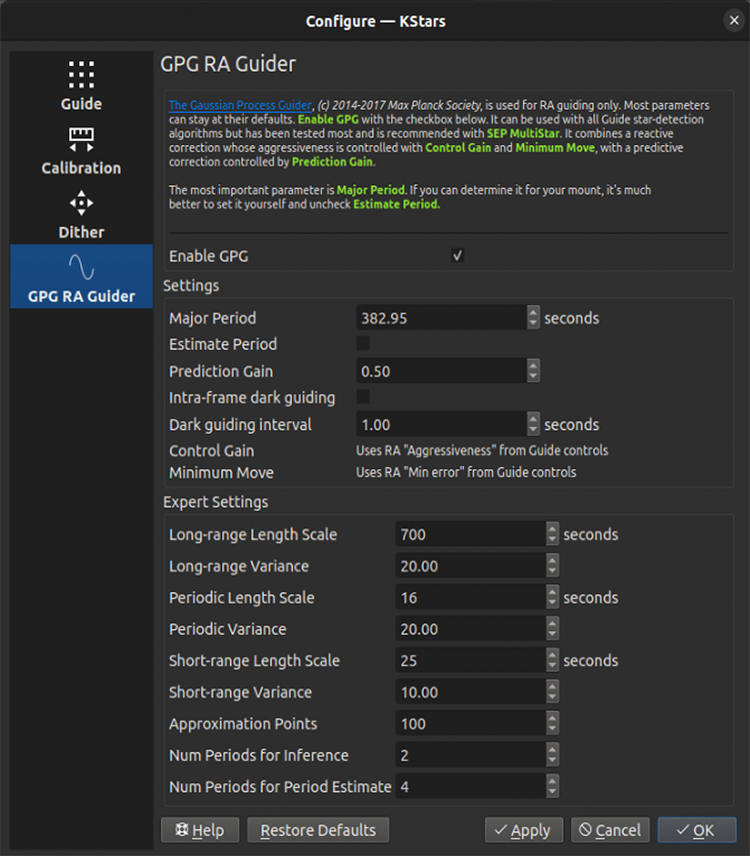
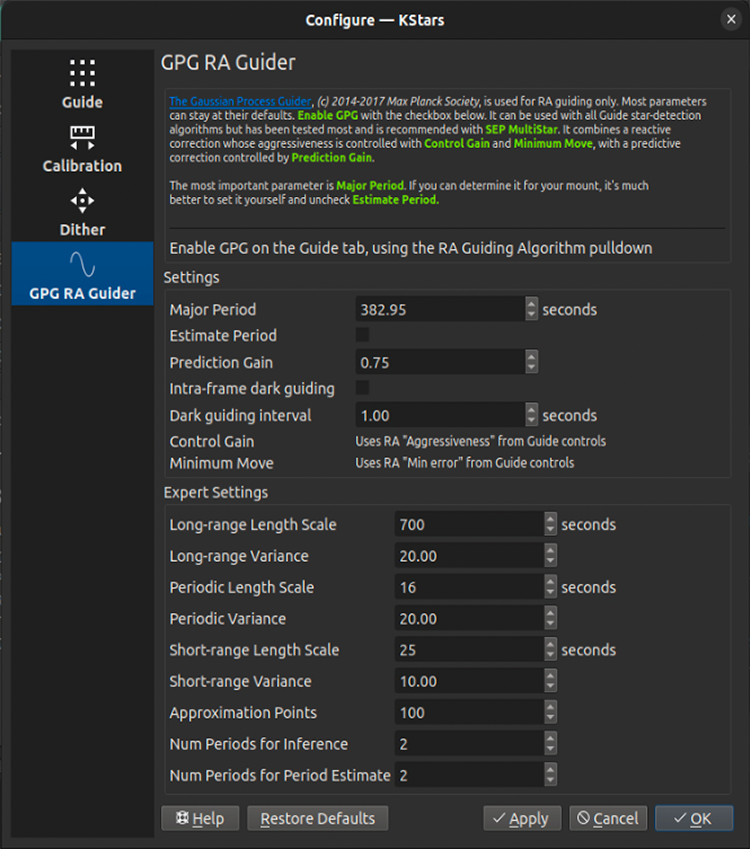
Update guider doc for guide algorithm selection

diff --git a/user_manual/ekos-guide.rst b/user_manual/ekos-guide.rst
@@ -198,8 +198,6 @@ Calibration Failures
 Guiding
 =========   
 
-                  |Guide Settings|
-
             Once the calibration process is completed successfully,
             guiding begins automatically. The guiding performance is
             displayed in the ``Drift Graphics`` region where ``Green`` reflects
@@ -213,37 +211,74 @@ Guiding
             inspect a specific region of the graph. Another convenient
             place to examine guiding performance is in the Analyze tab.
 
-            Ekos can utilize multiple algorithms to determine the drift
-            from the (original) lock position, but by far the most
-            accurate is the (default) SEP MultiStar algorithm. It uses
+                  |Guide Settings|
+
+            There are two types of algorithms used in the internal guider, and you
+            have choices of which variations to use for both. The first is the
+            ``Star Detection`` algorithm. The guider captures images of the sky and
+            automatically detects stars in these images. Once this is done, it can determine
+            your mount's drift in RA and DEC from its original position. The second type of
+            algorithm is the ``Guiding Algorithm`` used to compute the RA and DEC
+            guide pulses that should be sent to your mount to correct that drift.
+            
+            You can find star-detection algorithm choices in the Guide Settings
+            page (above image) at the top of the ``Other Settings`` section.
+            By far the most accurate is the (default) SEP MultiStar algorithm. It uses
             the detected position of many stars (in the above settings,
             up to 50) to determine its best estimate for the current
             drift. It is dependent on accurate star detection. Thus, it
             may be important to adjust star-detection parameters. Start
             with the default Guide-Default SEP profile, and optionally
             edit its parameters if you feel stars are not being detected
-            accurately.
+            accurately. Pretty much the only reason not to use SEP MultiStar
+            would be if you can't get your SEP star-detection to perform adequately.
 
-            Here are some of the parameters you may want to adjust.
-            Again, good advice in choosing parameters is available on
+            Guiding algorithm choices are made at the top of the settings page.
+            You can choose separate algorithms for RA and DEC.
+            Here are the possibilities:
+
+               -  Standard: The traditional proportional guide algorithm. It computes
+                  a pulse to correct the computed guide drift. The aggressiveness
+                  parameter decides what proportion of the error is corrected.
+                  Integral gain can be used but is not recommended.
+                  Errors smaller than MinError won't be corrected. Max response limits
+                  the largest correction. The hysteresis parameter is not used.
+
+               -  Hysteresis: Hysteresis is like the standard algorithm but weights in the
+                  previous correction according to the hysteresis parameter.
+
+               -  Linear: This is similar to the PHD2 Lowpass2 algorithm. It computes the
+                  error pulses based on a short history of recent errors. This may be applicable
+                  to very stable mounts and is similar to the PHD2 LowPass2 algorithm.
+
+               -  GPG: (RA Only) The GPG algorithm tries to predict periodic error and
+                  linear drifts. It uses the aggressiveness, min and max parameters here,
+                  and more parameters on the separate GPG tab. It is very similar to the
+                  PHD2 PPEC algorithm. For technical details see `this paper <https://www.researchgate.net/publication/276459268_Gaussian_Process-Based_Predictive_Control_for_Periodic_Error_Correction>`__.
+                  There is more detail on GPG below.
+
+            A good starting choice is ``Standard`` or ``Hysteresis`` (with a 0.1 hysteresis parameter).
+            You may want to use ``GPG`` for RA, as it is probably the best performing algorithm for many mounts,
+            however it is more complex to set up (see below). ``Linear`` is recommended for some
+            high-performance mounts.
+            
+            Good advice in choosing parameters is available on
             the internet, e.g. from `the above
             slideshow <https://openphdguiding.org/PHD2_BestPractices_2019-12.pdf>`__.
 
-               -  Aggressiveness. How quickly you want the guider to
-                  correct the error. Values of 0.5 or 0.6 are usually
-                  best (i.e. correcting about half the observed error).
+            The main parameter choices you have are below. They are applicable to
+            all the guiding algorithms.
+
+               -  Aggressiveness. This controls how quickly you want the guider to
+                  correct the error. Values of 0.5 to 0.7 are usually
+                  best (i.e. correcting roughly half the observed error).
                   Unintuitively, it seems that correcting 100% of the
-                  error can cause poor performance as the guider will
-                  often oscillate with overcorrections.
+                  error can cause poor performance as the guider may
+                  oscillate with overcorrections.
 
-               -  Algorithm. We strongly recommend you use the most
-                  up-to-date algorithm: SEP MultiStar. Pretty much the
-                  only reason not to would be if you can't get your SEP
-                  star-detection to perform adequately.
-
-               -  SEP Profile. Start with Guide-Default, though you may
-                  choose others if you have very large or small stars
-                  (in terms of number of pixels in diameter).
+               -  Min error. This controls the minimum deviation (in arc-seconds)
+                  for which a correction will be made. Adjusting this can avoid
+                  chasing the seeing.
 
 .. _ekos-guide-dithering:
 
